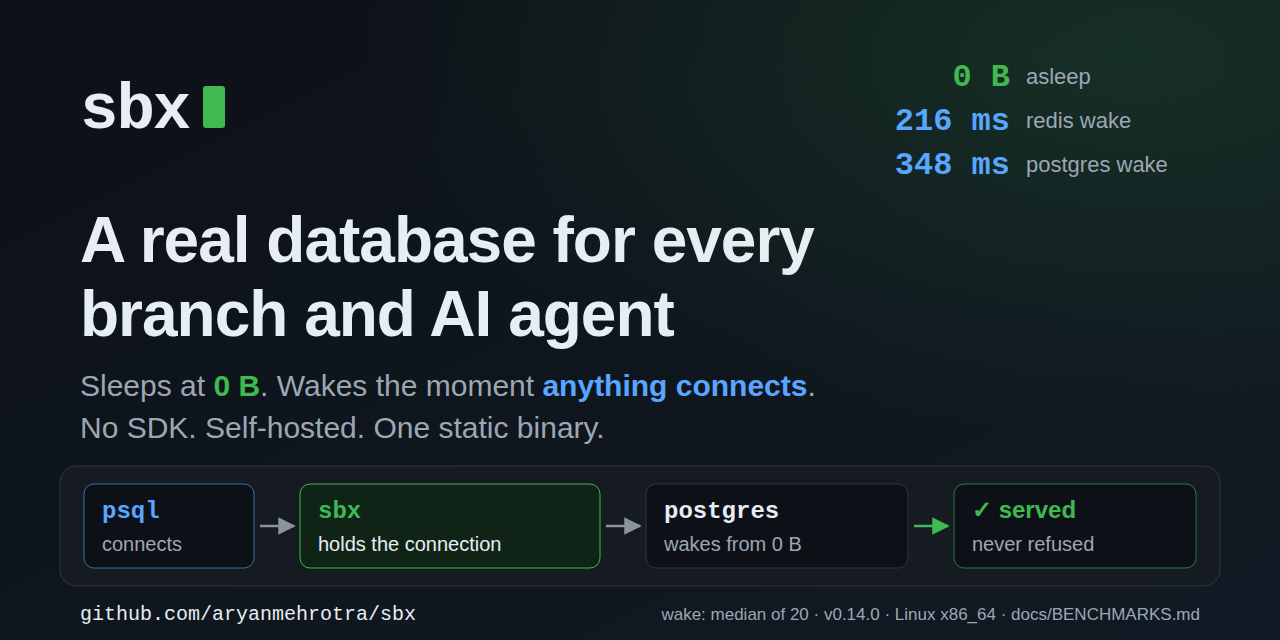
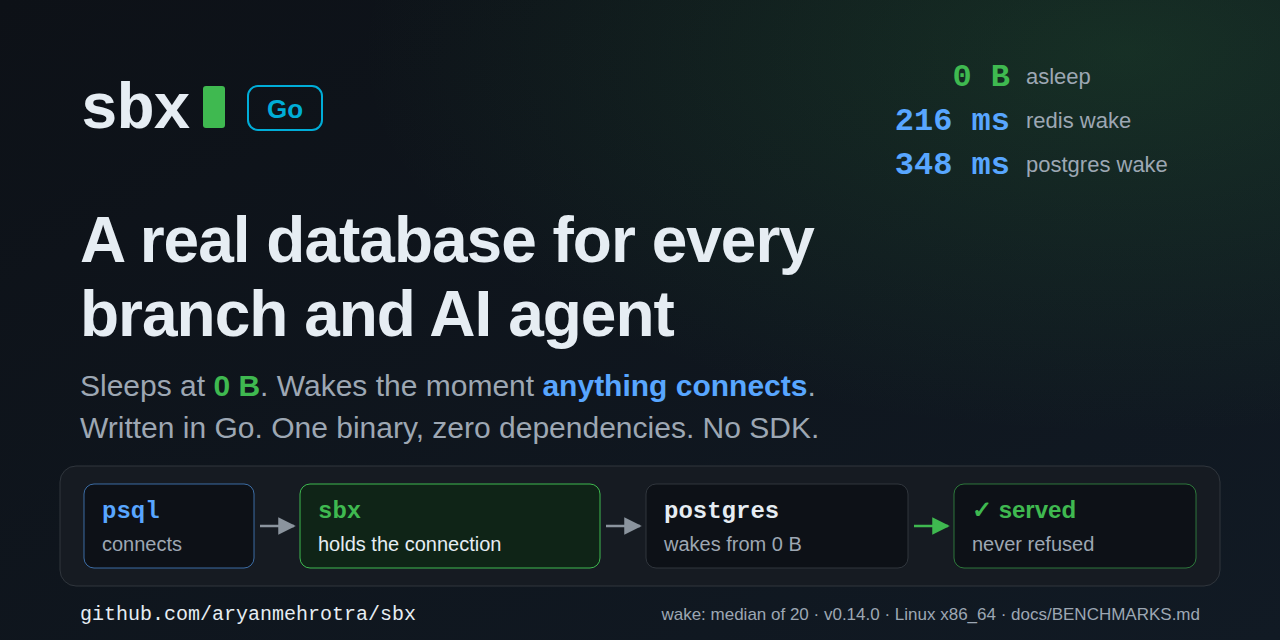
docs: say it is written in Go - in the README's opening, the hero and the social card
The README opens with "a single Go binary", brings back the Go Reference and Go Report Card
badges, and its proof bullet says standard library only, one static binary, `go install`. The
hero and the social card carry a Go tag beside the wordmark and "Written in Go" in their copy;
the social card PNG is re-rendered from its SVG.

Claude-Session: https://claude.ai/code/session_01Qp3g1cxupGnrEXZgxmpvGb

Changed region(s): [[0.0625, 0.6562, 0.6562, 0.6875], [0.1875, 0.125, 0.25, 0.2188]]

diff --git a/README.md b/README.md
@@ -3,12 +3,14 @@
 <img src="docs/hero.svg" width="900" alt="sbx: a real database for every branch and AI agent. It sleeps at 0 B of RAM and wakes in 216 ms for Redis or 348 ms for Postgres. psql connects, sbx holds the connection while Postgres wakes, then the same socket is served.">
 
 [![CI](https://github.com/aryanmehrotra/sbx/actions/workflows/ci.yaml/badge.svg)](https://github.com/aryanmehrotra/sbx/actions/workflows/ci.yaml)
+[![Go Reference](https://pkg.go.dev/badge/github.com/aryanmehrotra/sbx.svg)](https://pkg.go.dev/github.com/aryanmehrotra/sbx)
+[![Go Report Card](https://goreportcard.com/badge/github.com/aryanmehrotra/sbx)](https://goreportcard.com/report/github.com/aryanmehrotra/sbx)
 [![release](https://img.shields.io/github/v/release/aryanmehrotra/sbx?color=3fb950)](https://github.com/aryanmehrotra/sbx/releases)
 [![dependencies](https://img.shields.io/badge/dependencies-0-3fb950)](go.mod)
 [![license](https://img.shields.io/badge/license-MIT-blue)](LICENSE)
 
-sbx gives every branch, pull request or AI agent its own real Postgres, Redis or browser, on
-your own machine. Each one sleeps at 0 B of RAM when nobody is using it, and wakes the moment
+sbx is a single Go binary that gives every branch, pull request or AI agent its own real
+Postgres, Redis or browser, on your own machine. Each one sleeps at 0 B of RAM when nobody is using it, and wakes the moment
 anything connects to it.
 
 You don't call an SDK to wake it. Point `psql`, a connection pool, Playwright or your test runner
@@ -21,7 +23,7 @@ hands it over. The client waits a moment and gets an answer, never a refused por
 </picture>
 
 - Works with any TCP client: `psql`, connection pools, Playwright, test runners
-- One static Go binary with zero dependencies
+- Written in Go with only the standard library: one static binary, zero dependencies, `go install` and done
 - The same `sandbox.json` runs on Docker, Kubernetes or Firecracker microVMs
 
 Not to be confused with Docker's own `sbx` CLI (`docker/tap/sbx`).
